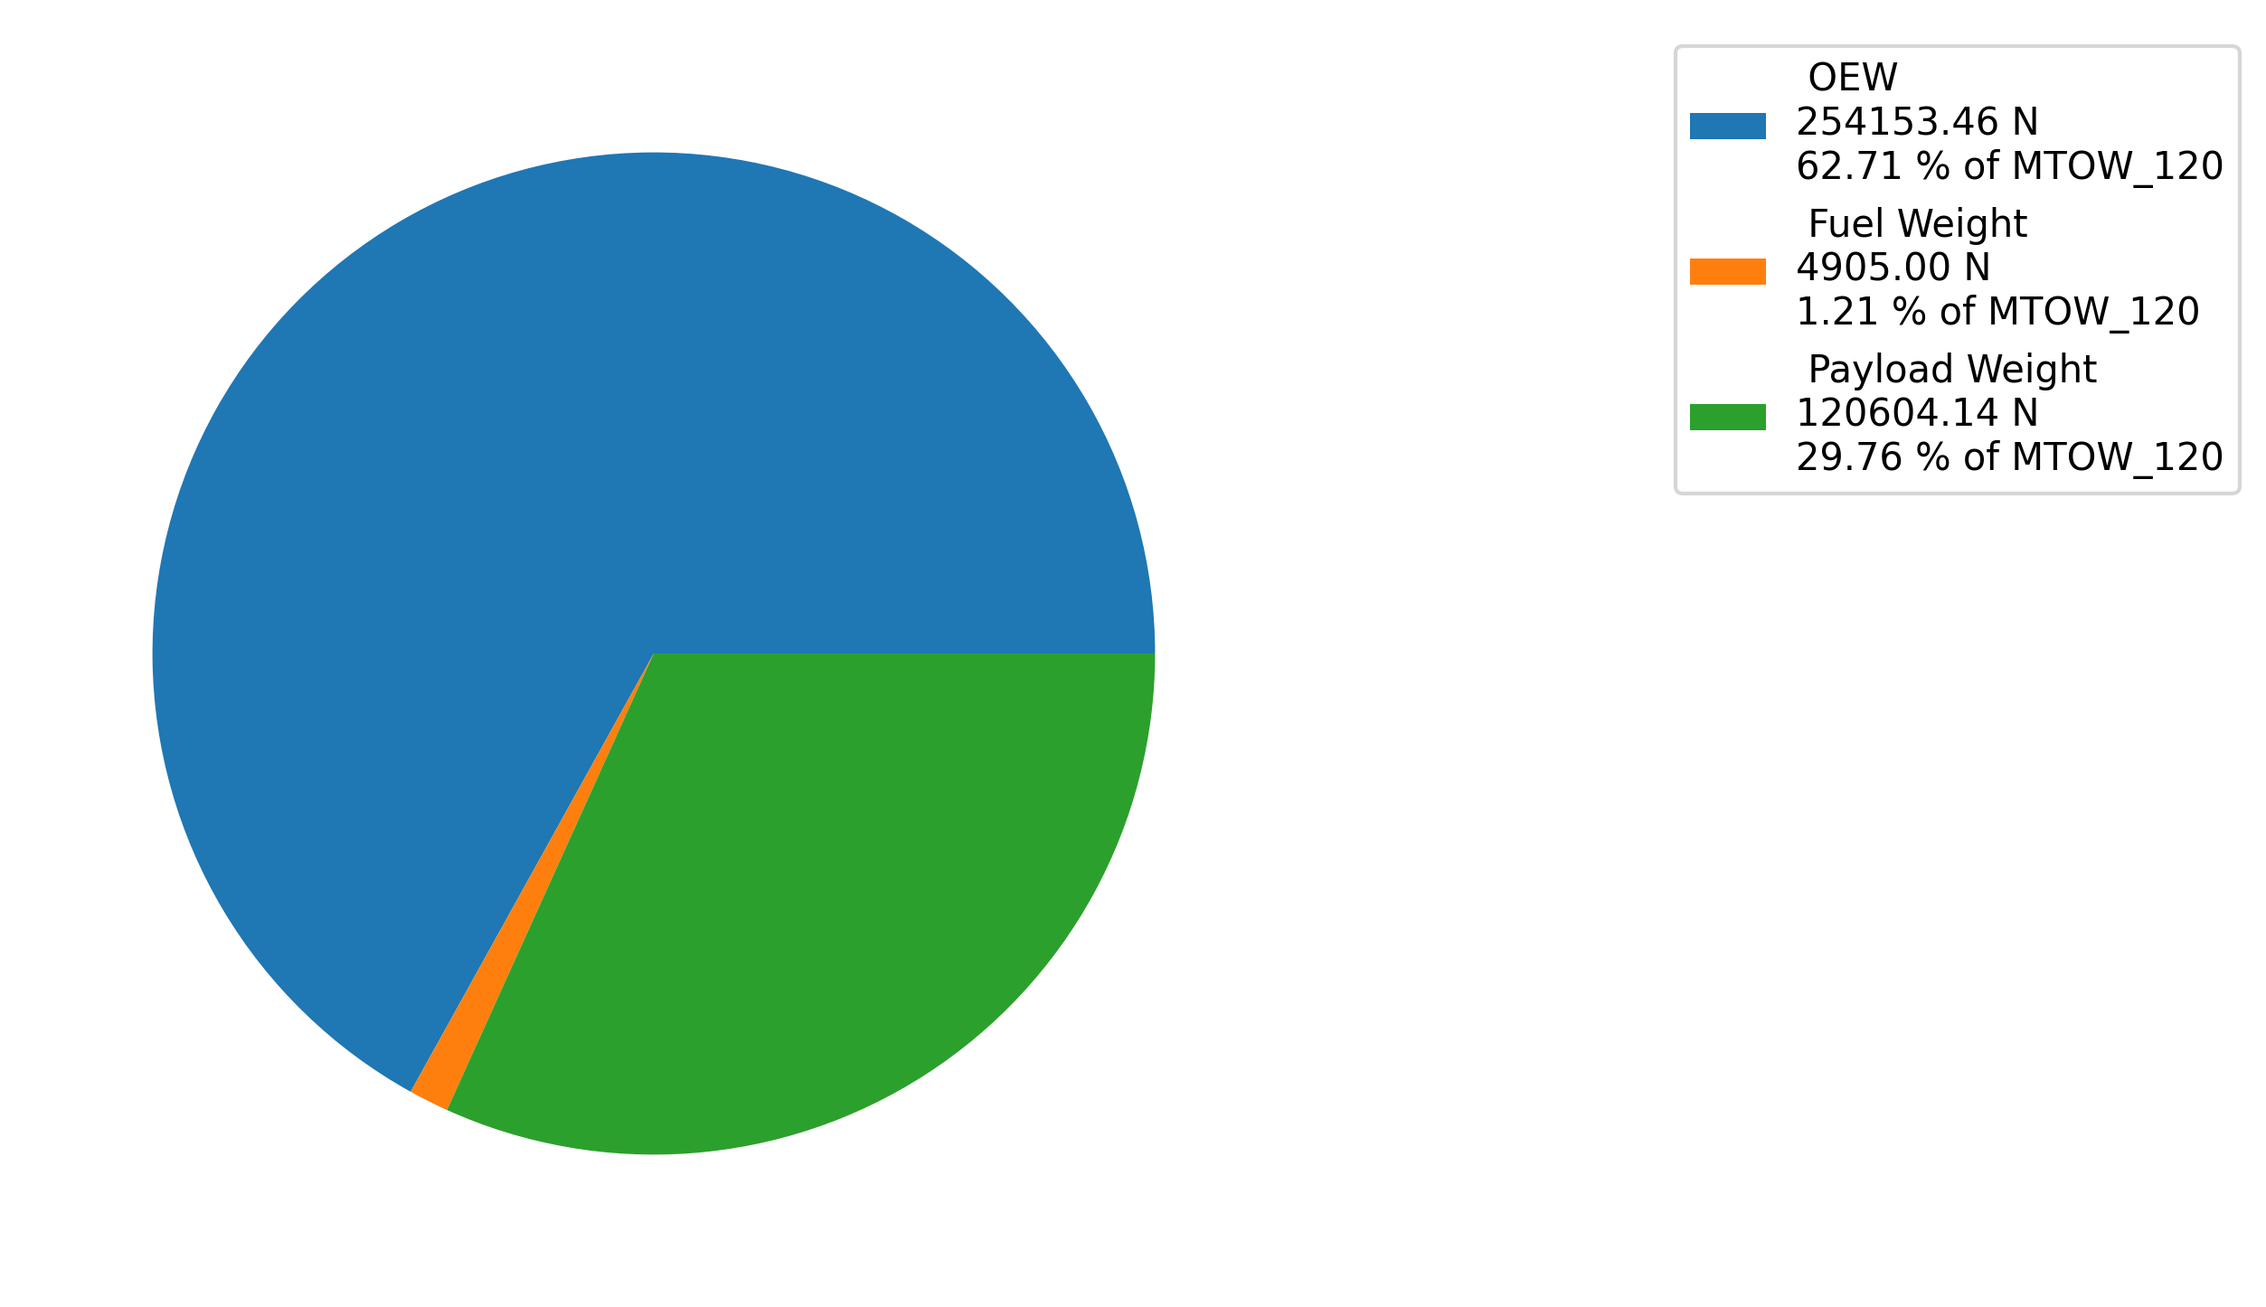
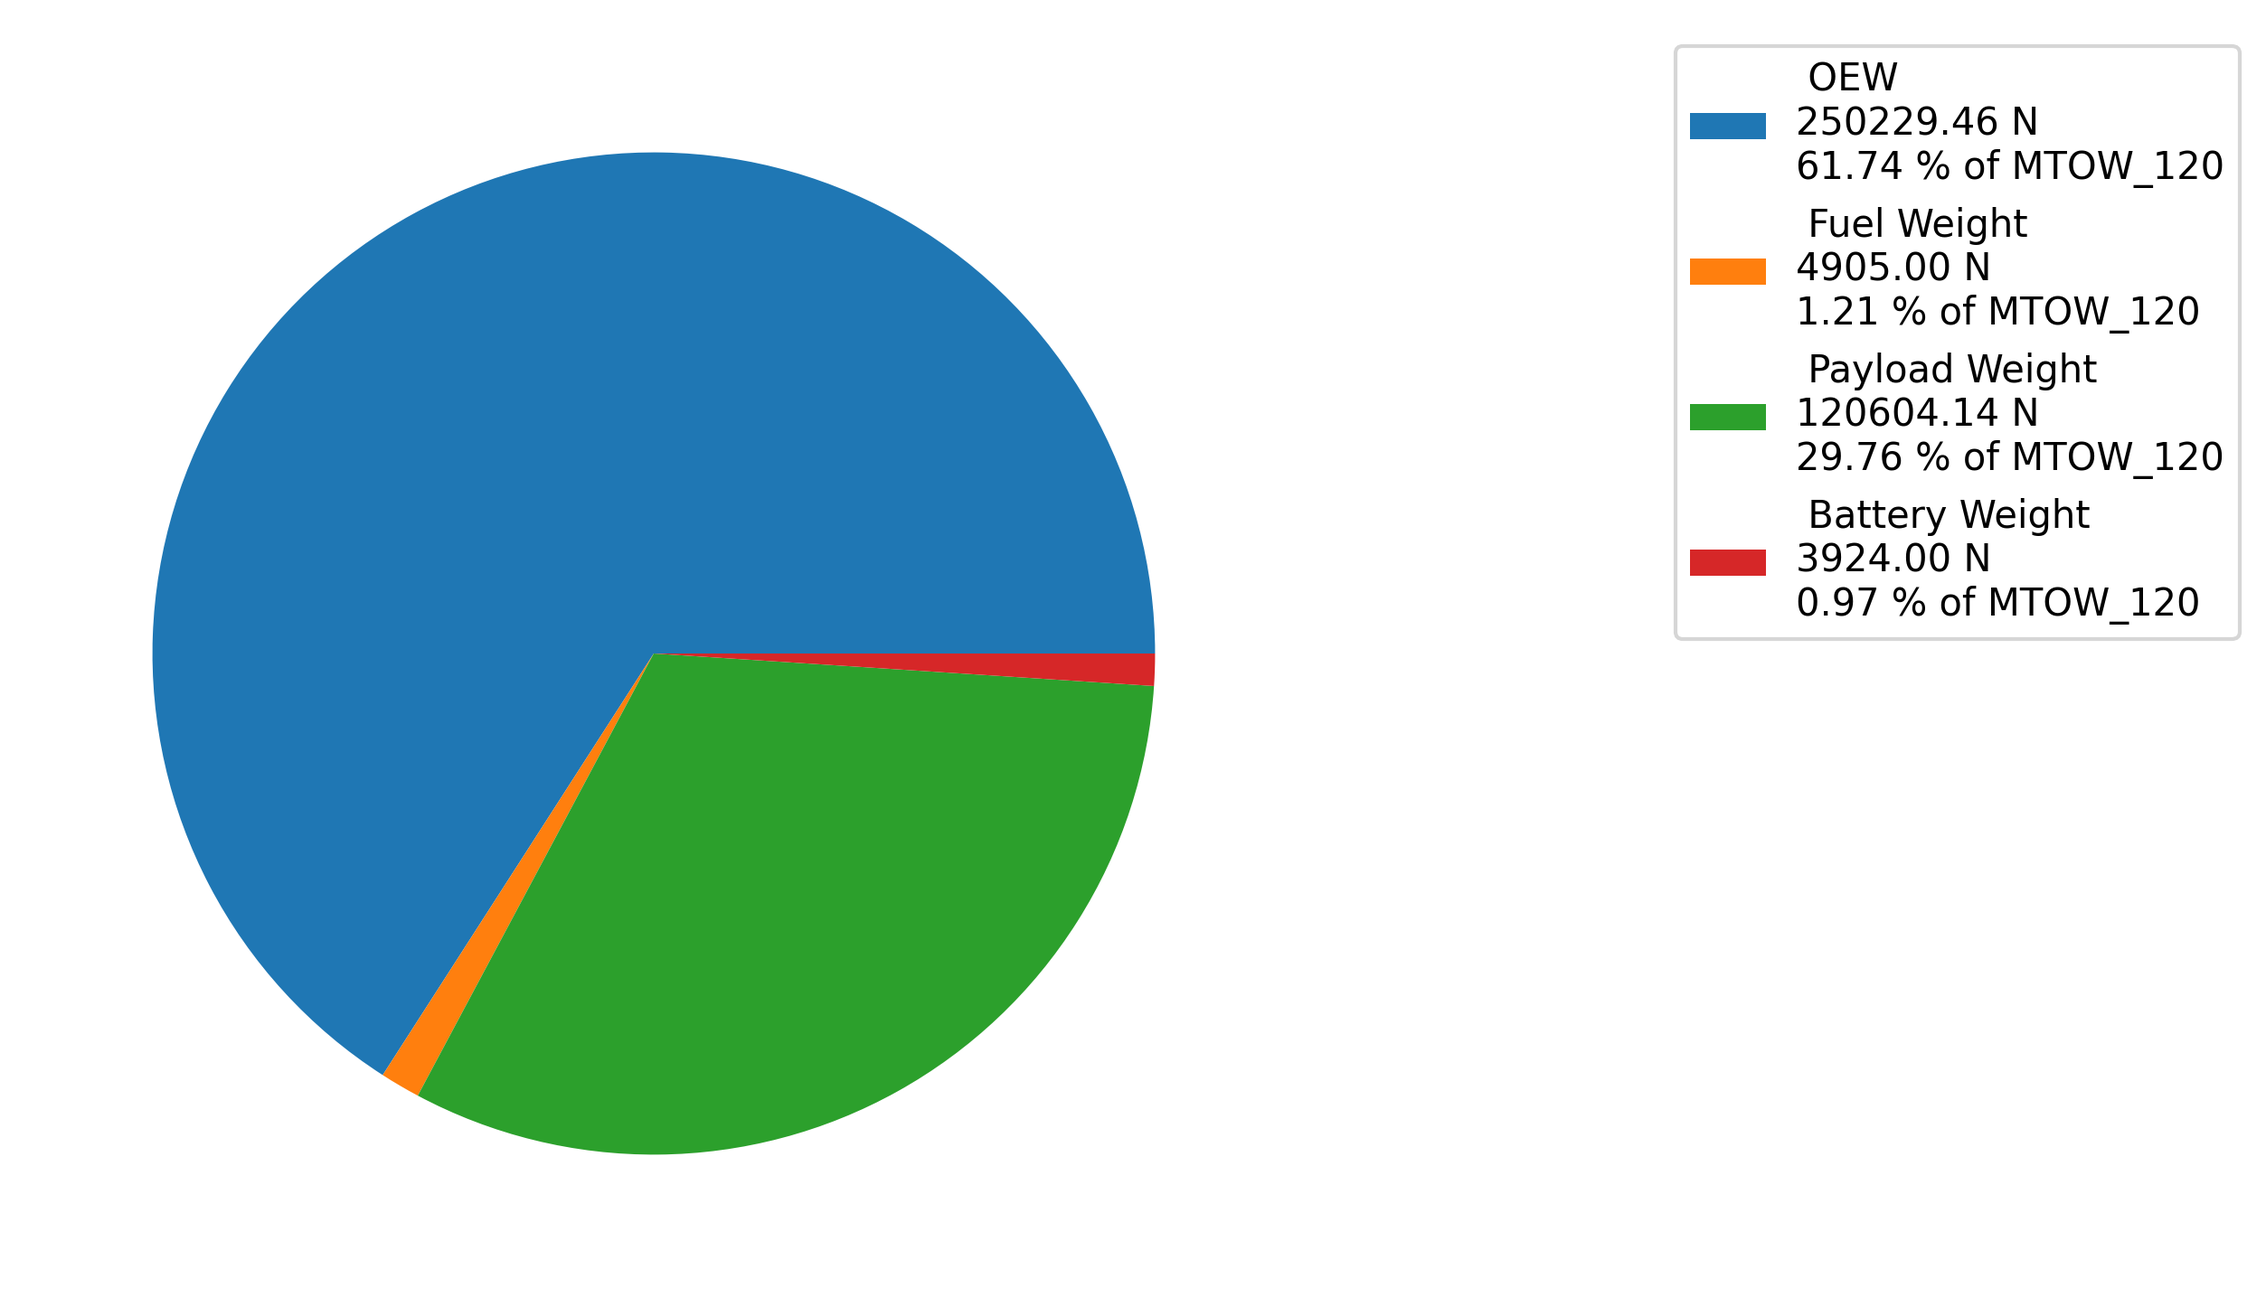
finished loading diagrams

diff --git a/loading_diagram.py b/loading_diagram.py
@@ -39,10 +39,10 @@ def add_cargo(ax, start_weight, start_cg, total_cargo, front_cargo_max_weight, f
         (start_weight * start_cg + fraction * (front_cargo_max_weight * front_cargo_position + back_cargo_max_weight * back_cargo_position)) / (start_weight + total_cargo)
     ]
 
-    ax.plot(front_cgs, front_weights, "orangered", label="Cargo loading (front to back)")
+    legend_fix, = ax.plot(front_cgs, front_weights, "orangered", label="Cargo loading (front to back)")
     ax.plot(back_cgs, back_weights, "darkred", label="Cargo loading (back to front)")
 
-    return front_weights[-1], front_cgs[-1], {*front_cgs, *back_cgs}
+    return front_weights[-1], front_cgs[-1], {*front_cgs, *back_cgs}, legend_fix
 
 
 def add_pax(ax, start_weight, start_cg, num_pax, pax_weight, first_row_position, seat_pitch):
@@ -157,6 +157,165 @@ def add_pax(ax, start_weight, start_cg, num_pax, pax_weight, first_row_position,
     )
 
 
+def add_pax_new(ax, start_weight, start_cg, num_pax, pax_weight, first_row_position, seat_pitch):
+    num_full_rows, num_last_row = divmod(num_pax, 5)
+    has_extra_row = num_last_row != 0
+    if has_extra_row:
+        last_row_position = first_row_position + (num_full_rows) * seat_pitch
+    else:
+        last_row_position = first_row_position + (num_full_rows - 1) * seat_pitch
+    
+    # windows
+    # front to back
+    weights_windows = []
+    cgs_windows_front_to_back = []
+    cgs_windows_back_to_front = []
+    for i in range(num_full_rows + has_extra_row + 1):
+        Wi = start_weight + 2 * i * pax_weight
+        weights_windows.append(Wi)
+        cgs_windows_front_to_back.append(
+            (
+                start_weight * start_cg
+                + pax_weight * (
+                    (2 * i) * ((i-1)/2 * seat_pitch + first_row_position)
+                )
+            )
+            / Wi
+        )
+    # back to front
+    for i in range(num_full_rows + has_extra_row + 1):
+        Wi = start_weight + 2 * i * pax_weight
+        cgs_windows_back_to_front.append(
+            (
+                start_weight * start_cg
+                + 2*i * pax_weight * (last_row_position - (i-1)/2 * seat_pitch)
+                
+            ) / Wi
+        )
+    
+    # check if last cg front to back is same as last cg back to front
+    if cgs_windows_front_to_back[-1] != cgs_windows_back_to_front[-1]:
+        print(f"{cgs_windows_front_to_back[-1]} != {cgs_windows_back_to_front[-1]}")
+        raise ValueError("CG mismatch between front to back and back to front window seat loading")
+
+    # aisles
+    # front to back
+    weights_aisles = []
+    cgs_aisles_front_to_back = []
+    cgs_aisles_back_to_front = []
+    for i in range(num_full_rows + has_extra_row + 1):
+        Wi = weights_windows[-1] + 2 * i * pax_weight
+        weights_aisles.append(Wi)
+        cgs_aisles_front_to_back.append(
+            (
+                weights_windows[-1] * cgs_windows_front_to_back[-1]
+                + pax_weight * (
+                    (2 * i) * ((i-1)/2 * seat_pitch + first_row_position)
+                )
+            )
+            / Wi
+        )
+    # back to front
+    for i in range(num_full_rows + has_extra_row + 1):
+        Wi = weights_windows[-1] + 2 * i * pax_weight
+        cgs_aisles_back_to_front.append(
+            (
+                weights_windows[-1] * cgs_windows_front_to_back[-1]
+                + 2*i * pax_weight * (last_row_position - (i-1)/2 * seat_pitch)
+                
+            ) / Wi
+        )
+    
+    # check if last cg front to back is same as last cg back to front
+    if cgs_aisles_front_to_back[-1] != cgs_aisles_back_to_front[-1]:
+        print(f"{cgs_aisles_front_to_back[-1]} != {cgs_aisles_back_to_front[-1]}")
+        raise ValueError("CG mismatch between front to back and back to front aisle seat loading")
+
+    # middle
+    # front to back
+    weights_middle = []
+    cgs_middle_front_to_back = []
+    cgs_middle_back_to_front = []
+    if has_extra_row:
+        for i in range(num_full_rows + 1):
+            Wi = weights_aisles[-1] + i * pax_weight
+            weights_middle.append(Wi)
+            cgs_middle_front_to_back.append(
+                (
+                    weights_aisles[-1] * cgs_aisles_front_to_back[-1]
+                    + pax_weight * i * (first_row_position+ (i-1)/2* seat_pitch)
+                    )
+                / Wi
+            )
+        # back to front
+        for i in range(num_full_rows + 1):
+            Wi = weights_aisles[-1] +  i * pax_weight
+            cgs_middle_back_to_front.append(
+                (
+                    weights_aisles[-1] * cgs_aisles_front_to_back[-1]
+                    + i * pax_weight * (last_row_position - (i+1)/2 * seat_pitch)
+                ) / Wi
+            )
+    else:
+        for i in range(num_full_rows+1):
+
+            Wi = weights_aisles[-1] + i * pax_weight
+            weights_middle.append(Wi)
+            cgs_middle_front_to_back.append(
+                (
+                    weights_aisles[-1] * cgs_aisles_front_to_back[-1]
+                    + pax_weight * i * (first_row_position+ (i-1)/2* seat_pitch)
+                    )
+                / Wi
+            )
+        # back to front
+        for i in range(num_full_rows+1):
+            Wi = weights_aisles[-1] +  i * pax_weight
+            cgs_middle_back_to_front.append(
+                (
+                    weights_aisles[-1] * cgs_aisles_front_to_back[-1]
+                    + i * pax_weight * (last_row_position - (i-1)/2 * seat_pitch)
+                ) / Wi
+            )
+
+    # check if last cg front to back is same as last cg back to front
+    if cgs_middle_front_to_back[-1] != cgs_middle_back_to_front[-1]:
+        print(f'nrows+1: {num_full_rows+1}')
+        print(f"{cgs_middle_front_to_back[-1]} != {cgs_middle_back_to_front[-1]}")
+        raise ValueError("CG mismatch between front to back and back to front middle seat loading")
+    
+    ax.plot(cgs_windows_front_to_back, weights_windows, c="orange", label="Window seats (front to back)")
+    ax.plot(cgs_windows_back_to_front, weights_windows, c="peru", label="Window seats (back to front)")
+    ax.plot(cgs_aisles_front_to_back, weights_aisles, c="yellowgreen", label="Aisle seats (front to back)")
+    ax.plot(cgs_aisles_back_to_front, weights_aisles, c="lawngreen", label="Aisle seats (back to front)")
+    ax.plot(cgs_middle_front_to_back, weights_middle, c="aquamarine", label="Middle seats (front to back)")
+    ax.plot(cgs_middle_back_to_front, weights_middle, c="lightseagreen", label="Middle seats (back to front)")
+    print(f"Added {num_pax} passengers at {pax_weight / G:.2f} [kg] each for a total mass of {num_pax * pax_weight / G:.2f} [kg]")
+    return (
+        start_weight + num_pax * pax_weight,
+        (
+            start_weight * start_cg
+            + pax_weight * (
+                (4 * (num_full_rows + has_extra_row)) * ((num_full_rows + has_extra_row - 1)/2 * seat_pitch + first_row_position)
+                + (num_full_rows) * ((num_full_rows-1)/2 * seat_pitch + first_row_position)
+            )
+        ) / (start_weight + num_pax * pax_weight),
+        {
+            start_cg, *cgs_windows_front_to_back, *cgs_windows_back_to_front, *cgs_aisles_front_to_back, 
+            *cgs_aisles_back_to_front, *cgs_middle_front_to_back, *cgs_middle_back_to_front
+        }
+    )
+
+def add_battery(ax, start_weight, start_cg, battery_pos, battery_weight):
+    if battery_pos == "none":
+        return start_weight, start_cg, {start_cg}
+    print(f"Loading battery of {battery_weight / G:.2f} [kg] at {battery_pos:.2f} % MAC from LEMAC")
+    new_weight = start_weight + battery_weight
+    new_cg = (start_weight * start_cg + battery_weight * battery_pos) / new_weight
+    ax.plot([start_cg, new_cg], [start_weight, new_weight], c="darkviolet", label="Battery")
+    return new_weight, new_cg, {start_cg, new_cg}
+
+
 def add_fuel(ax, start_weight, start_cg, load_wing_tank_first, wing_tank_capacity, center_tank_capacity, wing_tank_position, center_tank_position, mtow, fuel_load):
     if isinstance(fuel_load, str):
         if fuel_load != "max":
@@ -196,7 +355,7 @@ def add_fuel(ax, start_weight, start_cg, load_wing_tank_first, wing_tank_capacit
     print(f"  Wing tank load: {wing_load / G:.2f} [kg]")
     print(f"  Center tank load: {center_load / G:.2f} [kg]")
     print(f"  Fuel tank fill fraction: {fuel_load / (center_tank_capacity + wing_tank_capacity) * 100:.2f} %")
-    
+
     ax.plot(cgs, weights, c="royalblue", label=f"Fuel ({'wing tanks' if load_wing_tank_first else 'center tank'} first)")
 
     return weights[-1], cgs[-1], {start_cg, *cgs}
@@ -206,14 +365,28 @@ def generate_loading_diagram(
     filename, show_legend, cargo_first, x_LEMAC_m, MAC_m, xcg_oew, OEW_kg, mtow_kg, max_payload_kg, total_cargo_kg, 
     front_cargo_max_weight_kg, front_cargo_stations_m, back_cargo_max_weight_kg, back_cargo_stations_m, num_pax,
     pax_kg, first_row_position_m, seat_pitch_in, load_wing_tank_first, wing_tank_capacity_kg, center_tank_capacity_kg, 
-    wing_tank_position_mac, center_tank_position_mac, fuel_load_kg
+    wing_tank_position_mac, center_tank_position_mac, fuel_load_kg, battery_pos, battery_mass=0, fig=None, ax=None, legend_thingy=None
 ):
-    fig, ax = plt.subplots(figsize=(12, 8))
+    if fig is None and ax is None:
+        fig, ax = plt.subplots(figsize=(12, 8))
+        double_plot = False
+    else:
+        # change colour of existing lines to red
+        for line in ax.lines:
+            line.set_color("red")
+        for line in ax.collections:
+            print(line)
+            line.set_color("red")
+        print("existing lines changed to red")
+        ax.legend_ = None
+        ax.legend([legend_thingy], ['F100'])
+        double_plot = True
+
     OEW = OEW_kg * G  # convert to [N]
     all_cgs = {xcg_oew}
 
     if cargo_first:
-        after_cargo_weight, after_cargo_cg, cargo_cgs = add_cargo(
+        after_cargo_weight, after_cargo_cg, cargo_cgs, legend_thingy = add_cargo(
             ax,
             OEW,
             xcg_oew,
@@ -226,17 +399,24 @@ def generate_loading_diagram(
             num_pax,
             pax_kg * G,
         )
-        after_cargo_and_pax_weight, after_cargo_and_pax_cg, pax_cgs = add_pax(
+        after_cargo_and_pax_weight, after_cargo_and_pax_cg, pax_cgs = add_pax_new(
             ax,
             after_cargo_weight,
             after_cargo_cg,
             num_pax,
             pax_kg * G,
             (first_row_position_m - x_LEMAC_m) / MAC_m,
-            (seat_pitch_in * 0.0254) / MAC_m,
+            (seat_pitch_in * 0.0254) / MAC_m, 
+        )
+        after_cargo_pax_battery_weight, after_cargo_pax_battery_cg, battery_cgs = add_battery(
+            ax,
+            after_cargo_and_pax_weight,
+            after_cargo_and_pax_cg,
+            battery_pos,
+            battery_mass * G
         )
     else:
-        after_pax_weight, after_pax_cg, pax_cgs = add_pax(
+        after_pax_weight, after_pax_cg, pax_cgs = add_pax_new(
             ax,
             OEW,
             xcg_oew,
@@ -245,10 +425,17 @@ def generate_loading_diagram(
             (first_row_position_m - x_LEMAC_m) / MAC_m,
             (seat_pitch_in * 0.0254) / MAC_m,
         )
-        after_cargo_and_pax_weight, after_cargo_and_pax_cg, cargo_cgs = add_cargo(
+        after_pax_battery_weight, after_pax_battery_cg, battery_cgs = add_battery(
             ax,
             after_pax_weight,
             after_pax_cg,
+            battery_pos,
+            battery_mass * G
+        )
+        after_cargo_pax_battery_weight, after_cargo_pax_battery_cg, cargo_cgs, legend_thingy = add_cargo(
+            ax,
+            after_pax_battery_weight,
+            after_pax_battery_cg,
             total_cargo_kg * G if isinstance(total_cargo_kg, (int, float)) else total_cargo_kg,
             front_cargo_max_weight_kg * G,
             ((front_cargo_stations_m[0] + front_cargo_stations_m[1])/2 - x_LEMAC_m) / MAC_m,
@@ -261,34 +448,47 @@ def generate_loading_diagram(
     
     after_fuel_weight, after_fuel_cg, fuel_cgs = add_fuel(
         ax,
-        after_cargo_and_pax_weight,
-        after_cargo_and_pax_cg,
+        after_cargo_pax_battery_weight, 
+        after_cargo_pax_battery_cg,
         load_wing_tank_first,
         wing_tank_capacity_kg * G,
         center_tank_capacity_kg * G,
         wing_tank_position_mac,
         center_tank_position_mac,
         mtow_kg * G,
-        fuel_load_kg * G if isinstance(fuel_load_kg, (int, float)) else fuel_load_kg,
+        fuel_load_kg * G if isinstance(fuel_load_kg, (int, float)) else fuel_load_kg
     )
     
     # final cg bounds
-    all_cgs.update(cargo_cgs, pax_cgs, fuel_cgs)
+    all_cgs.update(cargo_cgs, pax_cgs, fuel_cgs, battery_cgs)
     cg_margin = 0.02  # cg margin, in % MAC
     lower_limit = min(all_cgs) - cg_margin
     upper_limit = max(all_cgs) + cg_margin
-    ax.axvline(lower_limit, c="k", label=f"cg limits with {cg_margin * 100:.0f}% margin")
-    ax.axvline(upper_limit, c="k")  # yes this has no label, but they're both black lines
+    ax.axvline(lower_limit, c="k", label=f"cg limits with {cg_margin * 100:.0f}% margin", linestyle="--")
+    ax.axvline(upper_limit, c="k", linestyle="--")  # yes this has no label, but they're both black lines
     print(f"LOWER c.g. LIMIT: {lower_limit*100:.2f} % of MAC from LEMAC")
     print(f"UPPER c.g. LIMIT: {upper_limit*100:.2f} % of MAC from LEMAC")
 
     if show_legend:
-        ax.legend()
+        if not double_plot:
+            ax.legend()
+        if double_plot: 
+            # change colour of new lines to blue
+            for line in ax.lines:
+                if line.get_color() != "red":
+                    line.set_color("blue")
+            for line in ax.collections:
+                if line.get_color() != "red":
+                    line.set_color("blue")
+            other_legend, = ax.plot([], [], "red", label="F100")
+            ax.legend([legend_thingy, other_legend], ['F120', 'F100'], loc='upper right')
     ax.set_xlabel(r"$x_{cg}/\bar{c}$ from $x_{LEMAC}$ [-]")
     ax.set_ylabel(r"$W$ [N]")
     fig.tight_layout()
     fig.savefig(filename, dpi=300, bbox_inches="tight")
     plt.show()
+
+    return fig, ax, legend_thingy
 
 
 if __name__ == "__main__":
@@ -317,5 +517,27 @@ if __name__ == "__main__":
         "wing_tank_position_mac": 0.4564,           # wing tank cg, in % MAC from LEMAC [-]
         "center_tank_position_mac": 0.1133,         # center tank cg, in % MAC from LEMAC [-]
         "fuel_load_kg": "max",                      # total fuel load, in [kg], or "max" to load up to limiting factor (MTOW or tank capacity)
+        "battery_pos": 'none',                      # position of the battery, in % MAC [-] or "none" if no battery
     }
-    generate_loading_diagram(**full_payload_config)
+    fig, ax, legend_thingy = generate_loading_diagram(**full_payload_config)
+
+    f120_config = full_payload_config.copy()
+
+    f120_config["filename"] = "f120_config"
+    f120_config['battery_pos'] = -3.047071139
+    f120_config['battery_mass'] = 400
+    f120_config['wing_tank_capacity_kg'] = 0
+    f120_config['center_tank_capacity_kg'] = 3110.2
+    f120_config['fuel_load_kg'] = 500
+    f120_config['num_pax'] = 90
+    f120_config['load_wing_tank_first'] = False
+    f120_config['OEW_kg'] = 25507.59
+    f120_config['mtow_kg'] = 41311.79
+    f120_config['center_tank_position_mac'] = 2.0010
+    f120_config['xcg_oew'] = 0.90765
+    
+    f120_config["fig"] = fig
+    f120_config["ax"] = ax
+    f120_config["legend_thingy"] = legend_thingy
+    generate_loading_diagram(**f120_config)
+    

diff --git a/pie_plane.py b/pie_plane.py
@@ -45,17 +45,19 @@ def max_payload_weight_breakdown():
 
 
 def f120_weight_breakdown():
-    OEW = 25907.59 * c.G
+    OEW = 25507.59 * c.G
     fuel_weight = 500 * c.G
     payload_weight = 12294 * c.G
     MTOW_120 = 41311.79 * c.G
+    BW = 400 * c.G
 
-    sizes = [OEW, fuel_weight, payload_weight]
+    sizes = [OEW, fuel_weight, payload_weight, BW]
 
     labels = [
         f" OEW\n{OEW:.2f} N\n{100*OEW/MTOW_120:.2f} % of MTOW_120",
         f" Fuel Weight\n{fuel_weight:.2f} N\n{100*fuel_weight/MTOW_120:.2f} % of MTOW_120",
         f" Payload Weight\n{payload_weight:.2f} N\n{100*payload_weight/MTOW_120:.2f} % of MTOW_120",
+        f" Battery Weight\n{BW:.2f} N\n{100*BW/MTOW_120:.2f} % of MTOW_120"
     ]
 
     fig, ax = plt.subplots(figsize=(8, 6))
